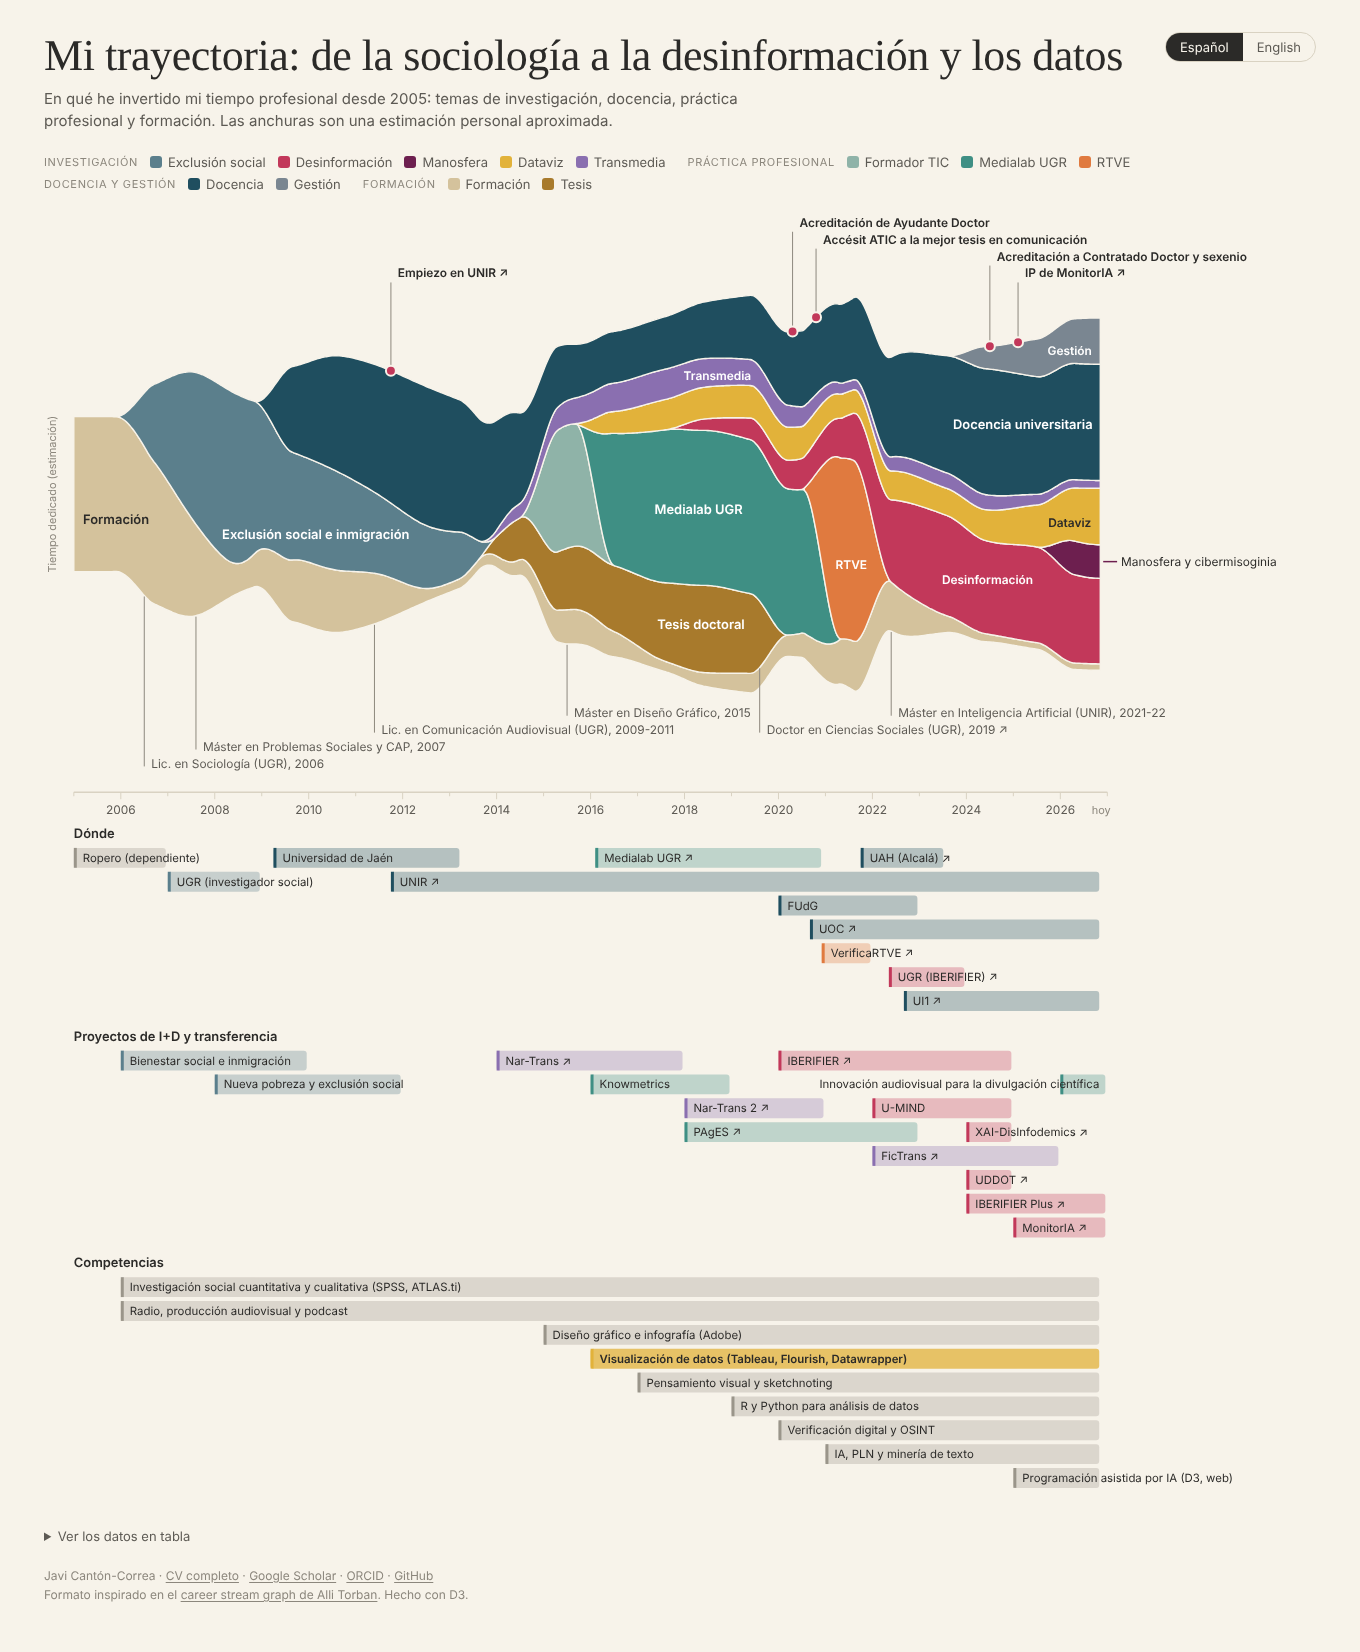
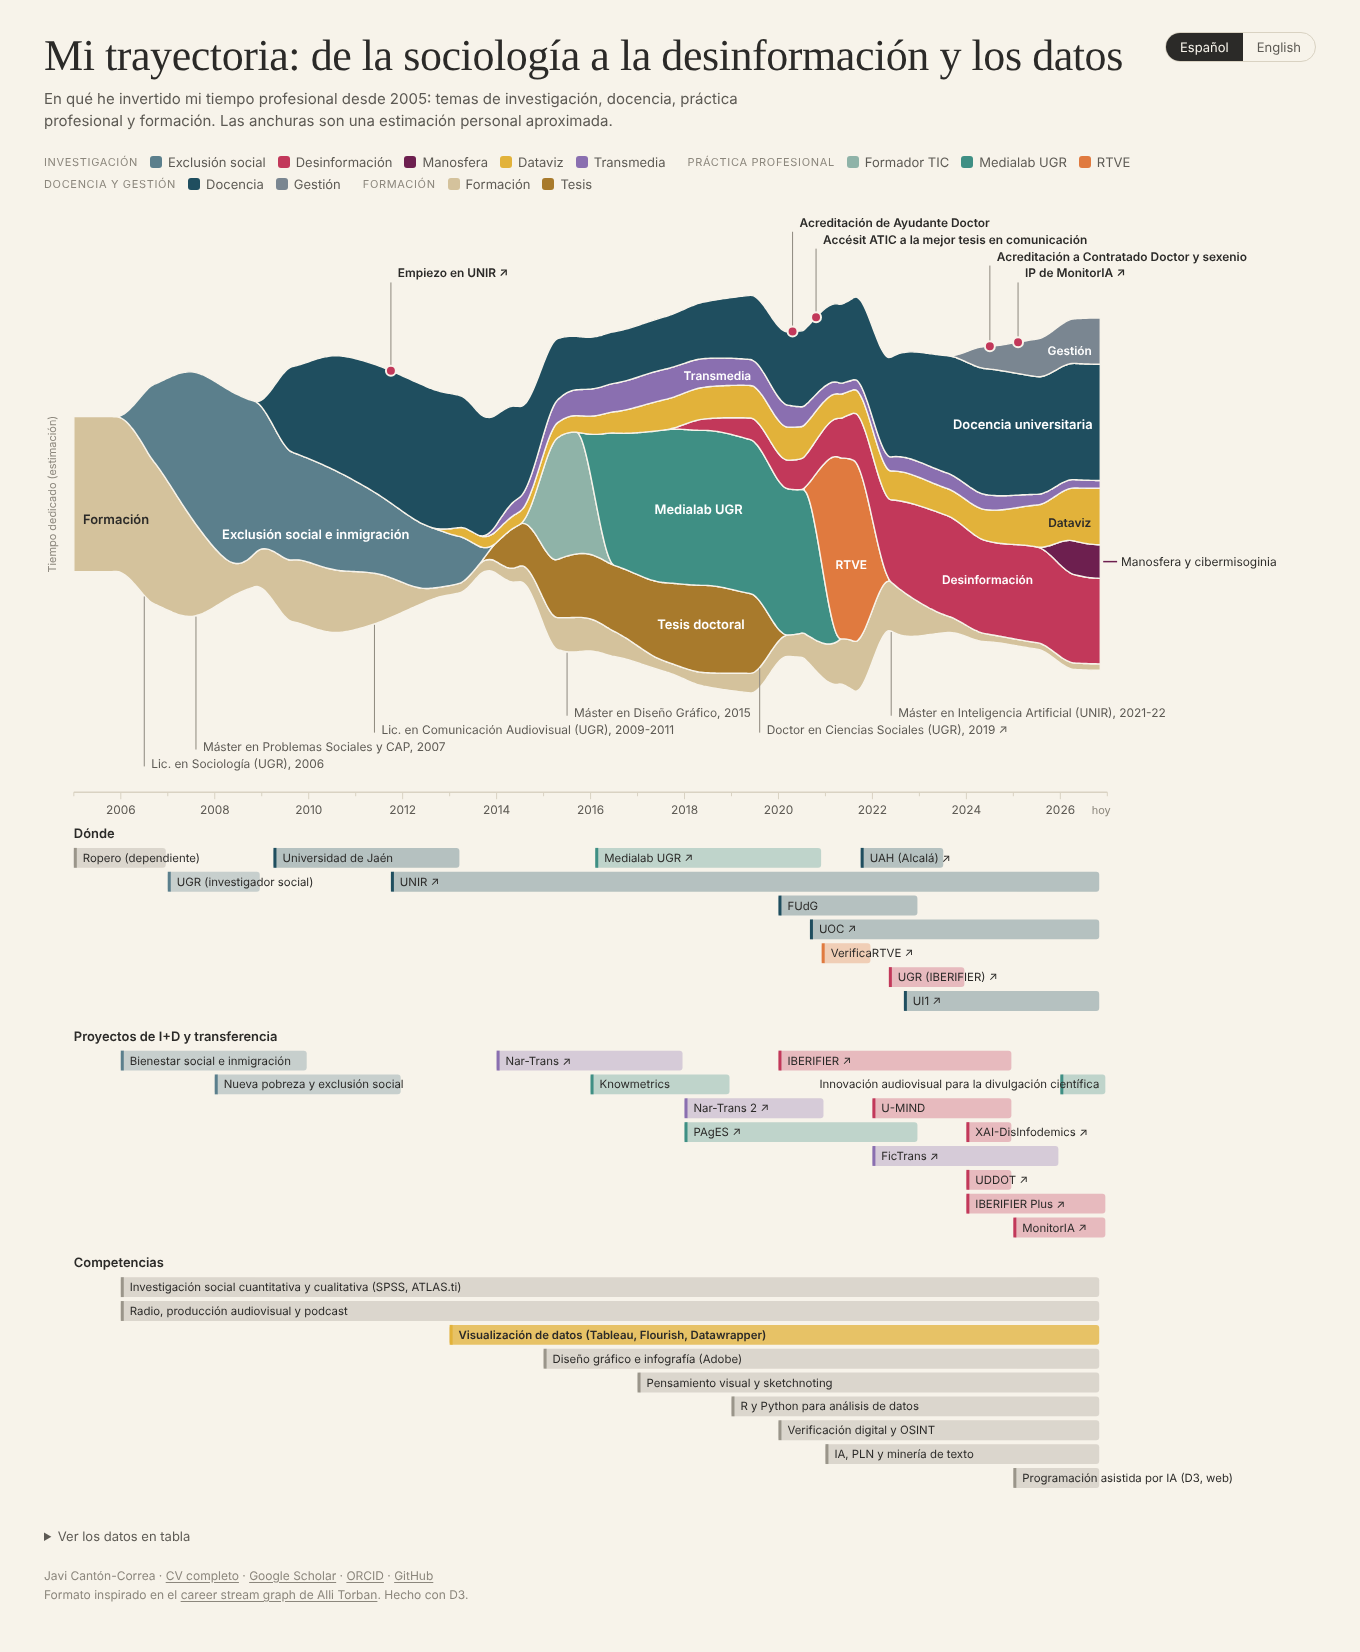
Dataviz arranca en 2013 (Talleres de Periodismo de Datos, Medialab Prado)
Claude-Session: https://claude.ai/code/session_01DfVyMKqqnurmCvhyE7qnXV

Changed region(s): [[0.3088, 0.8027, 0.8338, 0.8335], [0.3397, 0.1852, 0.4324, 0.3705], [0.4015, 0.3705, 0.4324, 0.4013]]

diff --git a/index.html b/index.html
@@ -176,9 +176,9 @@ const DATA = {
       valores: { 2026: 1.3 } },
     { id: "dataviz", grupo: "investigacion", color: "#e2b23a",
       nombre: { es: "Visualización de datos", en: "Data visualization" }, corto: { es: "Dataviz", en: "Dataviz" },
-      desc: { es: "Investigación, talleres y divulgación sobre visualización, periodismo de datos y pensamiento visual.", en: "Research, workshops and outreach on visualization, data journalism and visual thinking." },
-      desde: 2016, hasta: null,
-      valores: { 2016: 0.8, 2017: 1.2, 2020: 1.3, 2021: 0.8, 2022: 1.2, 2023: 1, 2024: 1.2, 2025: 1.6, 2026: 2.2 } },
+      desc: { es: "Arranca en 2013 con los Talleres de Periodismo de Datos de Medialab Prado (Madrid). Después, investigación, talleres y divulgación sobre visualización, periodismo de datos y pensamiento visual.", en: "Starts in 2013 with the Data Journalism Workshops at Medialab Prado (Madrid). Then research, workshops and outreach on visualization, data journalism and visual thinking." },
+      desde: 2013, hasta: null,
+      valores: { 2013: 0.4, 2014: 0.5, 2015: 0.6, 2016: 0.8, 2017: 1.2, 2020: 1.3, 2021: 0.8, 2022: 1.2, 2023: 1, 2024: 1.2, 2025: 1.6, 2026: 2.2 } },
     { id: "transmedia", grupo: "investigacion", color: "#8a6fb0",
       nombre: { es: "Narrativas transmedia y cultura visual", en: "Transmedia storytelling and visual culture" }, corto: { es: "Transmedia", en: "Transmedia" },
       desc: { es: "Grupo Nar-Trans (UGR): transmedialización, ficción y no ficción.", en: "Nar-Trans group (University of Granada): transmedia adaptation, fiction and non-fiction." },
@@ -237,7 +237,7 @@ const DATA = {
     { nombre: { es: "Investigación social cuantitativa y cualitativa (SPSS, ATLAS.ti)", en: "Quantitative and qualitative social research (SPSS, ATLAS.ti)" }, desde: 2006, hasta: null, tipo: null },
     { nombre: { es: "Radio, producción audiovisual y podcast", en: "Radio, audiovisual production and podcasting" }, desde: 2006, hasta: null, tipo: null },
     { nombre: { es: "Diseño gráfico e infografía (Adobe)", en: "Graphic design and infographics (Adobe)" }, desde: 2015, hasta: null, tipo: null },
-    { nombre: { es: "Visualización de datos (Tableau, Flourish, Datawrapper)", en: "Data visualization (Tableau, Flourish, Datawrapper)" }, desde: 2016, hasta: null, tipo: "dataviz", destacada: true },
+    { nombre: { es: "Visualización de datos (Tableau, Flourish, Datawrapper)", en: "Data visualization (Tableau, Flourish, Datawrapper)" }, desde: 2013, hasta: null, tipo: "dataviz", destacada: true },
     { nombre: { es: "Pensamiento visual y sketchnoting", en: "Visual thinking and sketchnoting" }, desde: 2017, hasta: null, tipo: null },
     { nombre: { es: "R y Python para análisis de datos", en: "R and Python for data analysis" }, desde: 2019, hasta: null, tipo: null },
     { nombre: { es: "Verificación digital y OSINT", en: "Digital verification and OSINT" }, desde: 2020, hasta: null, tipo: null },
